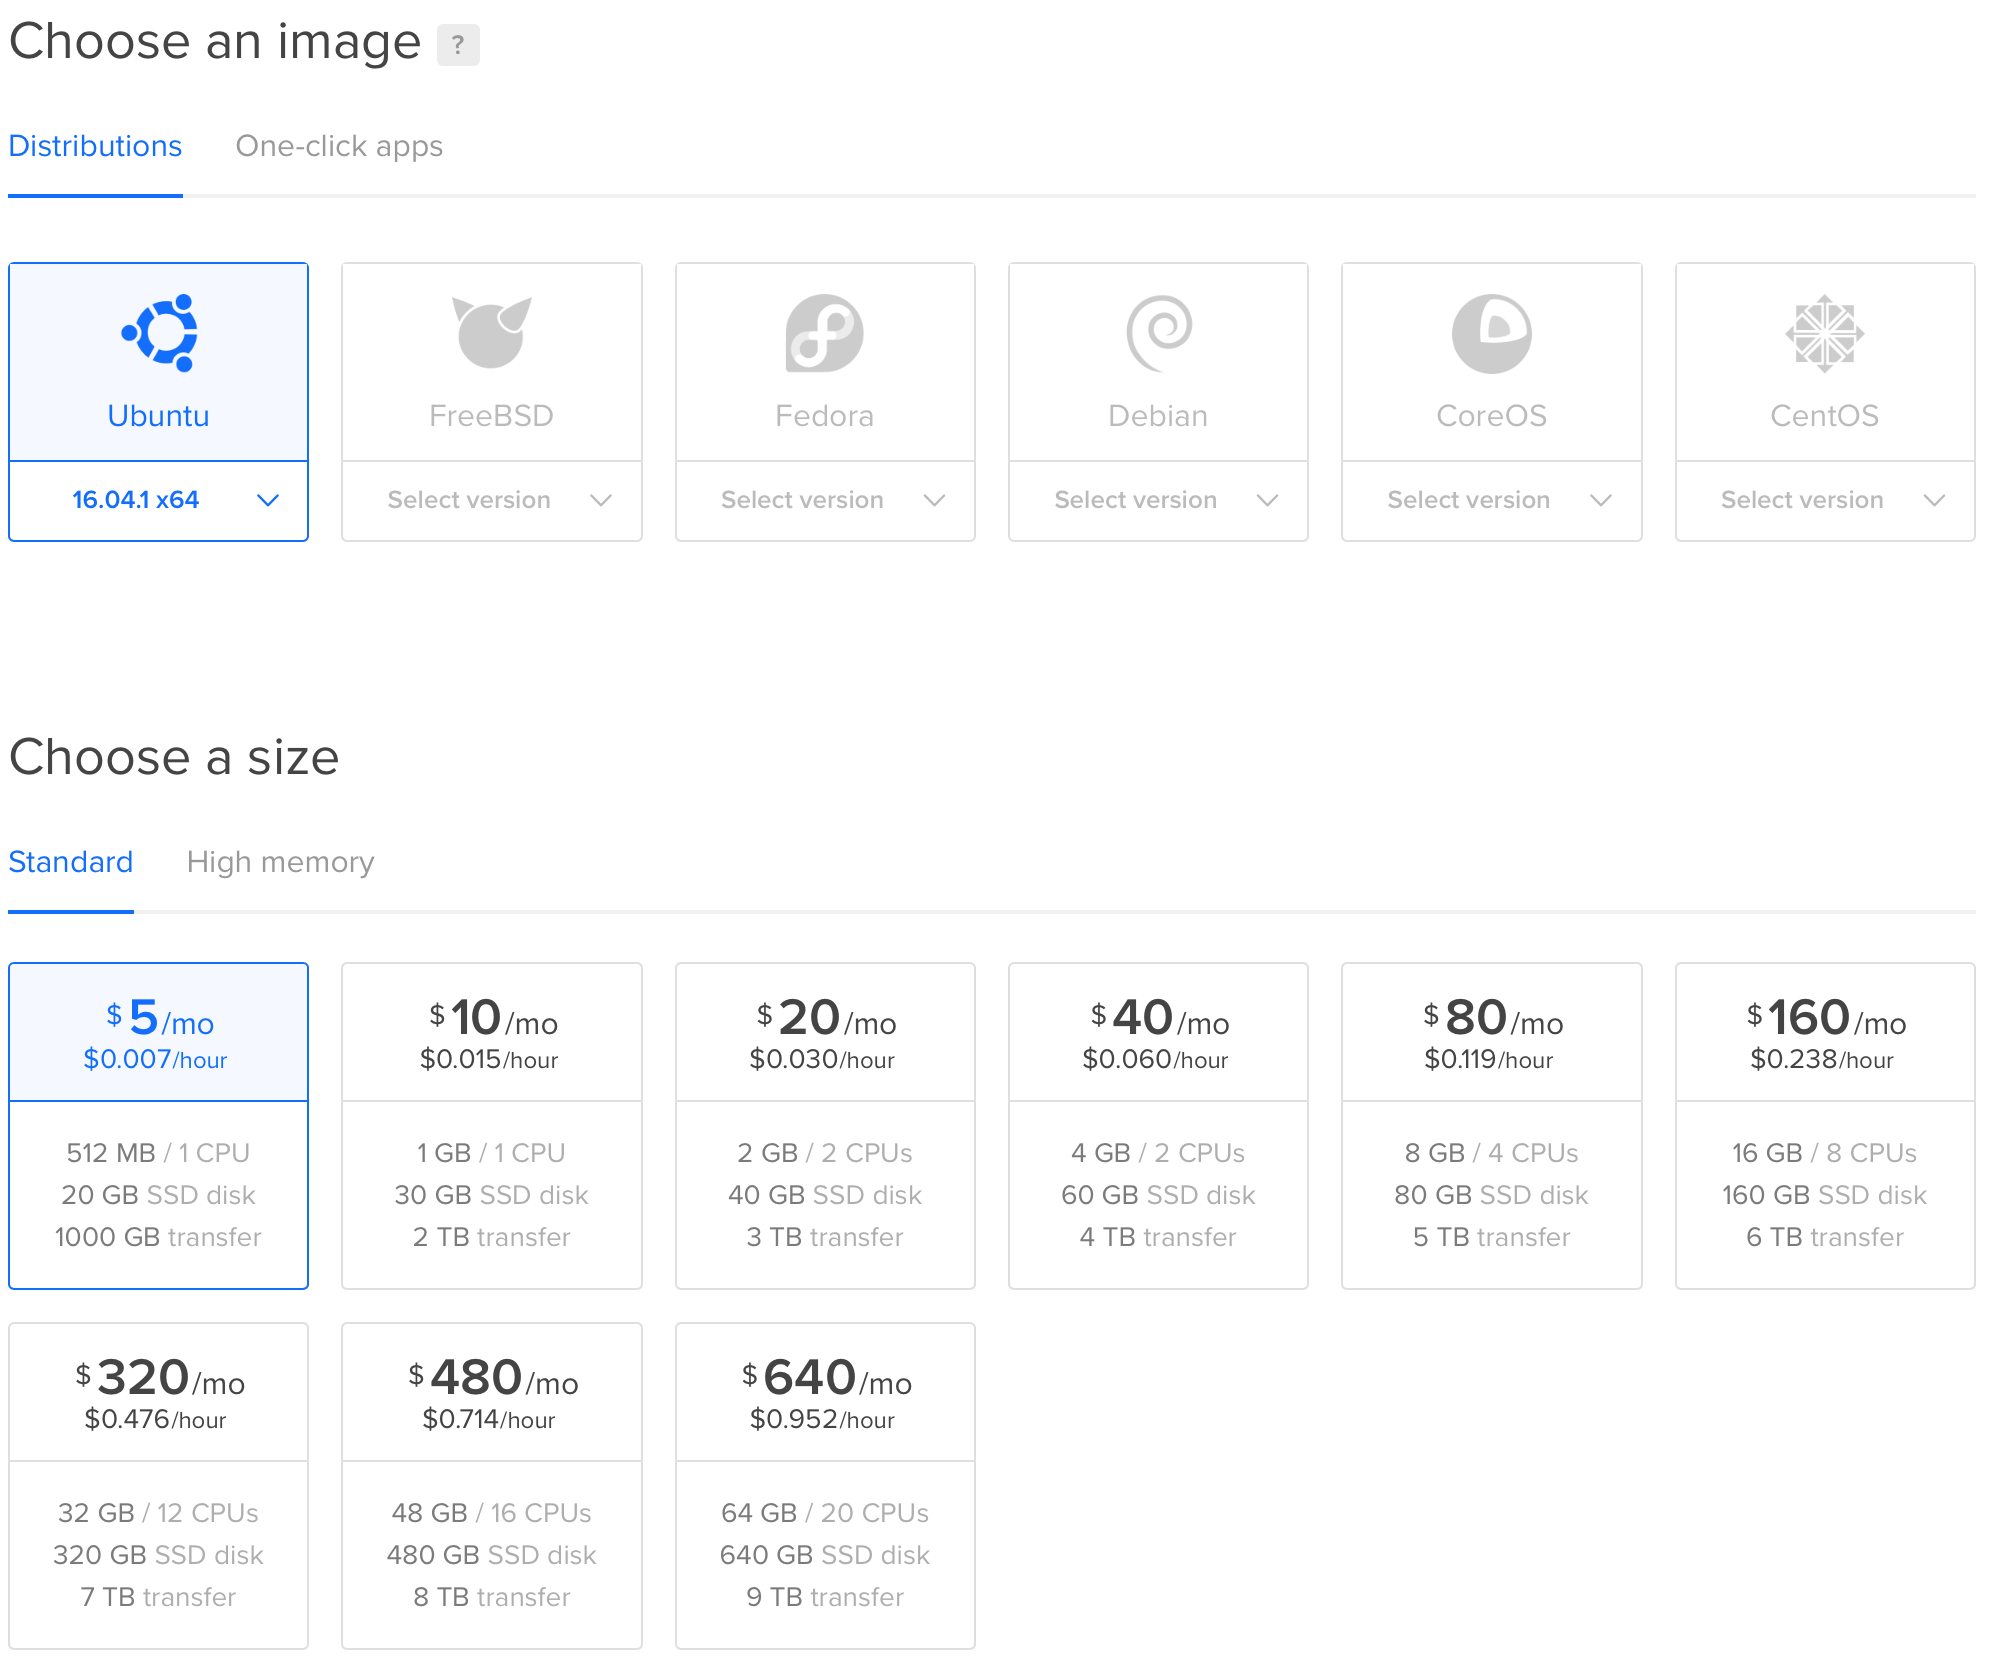
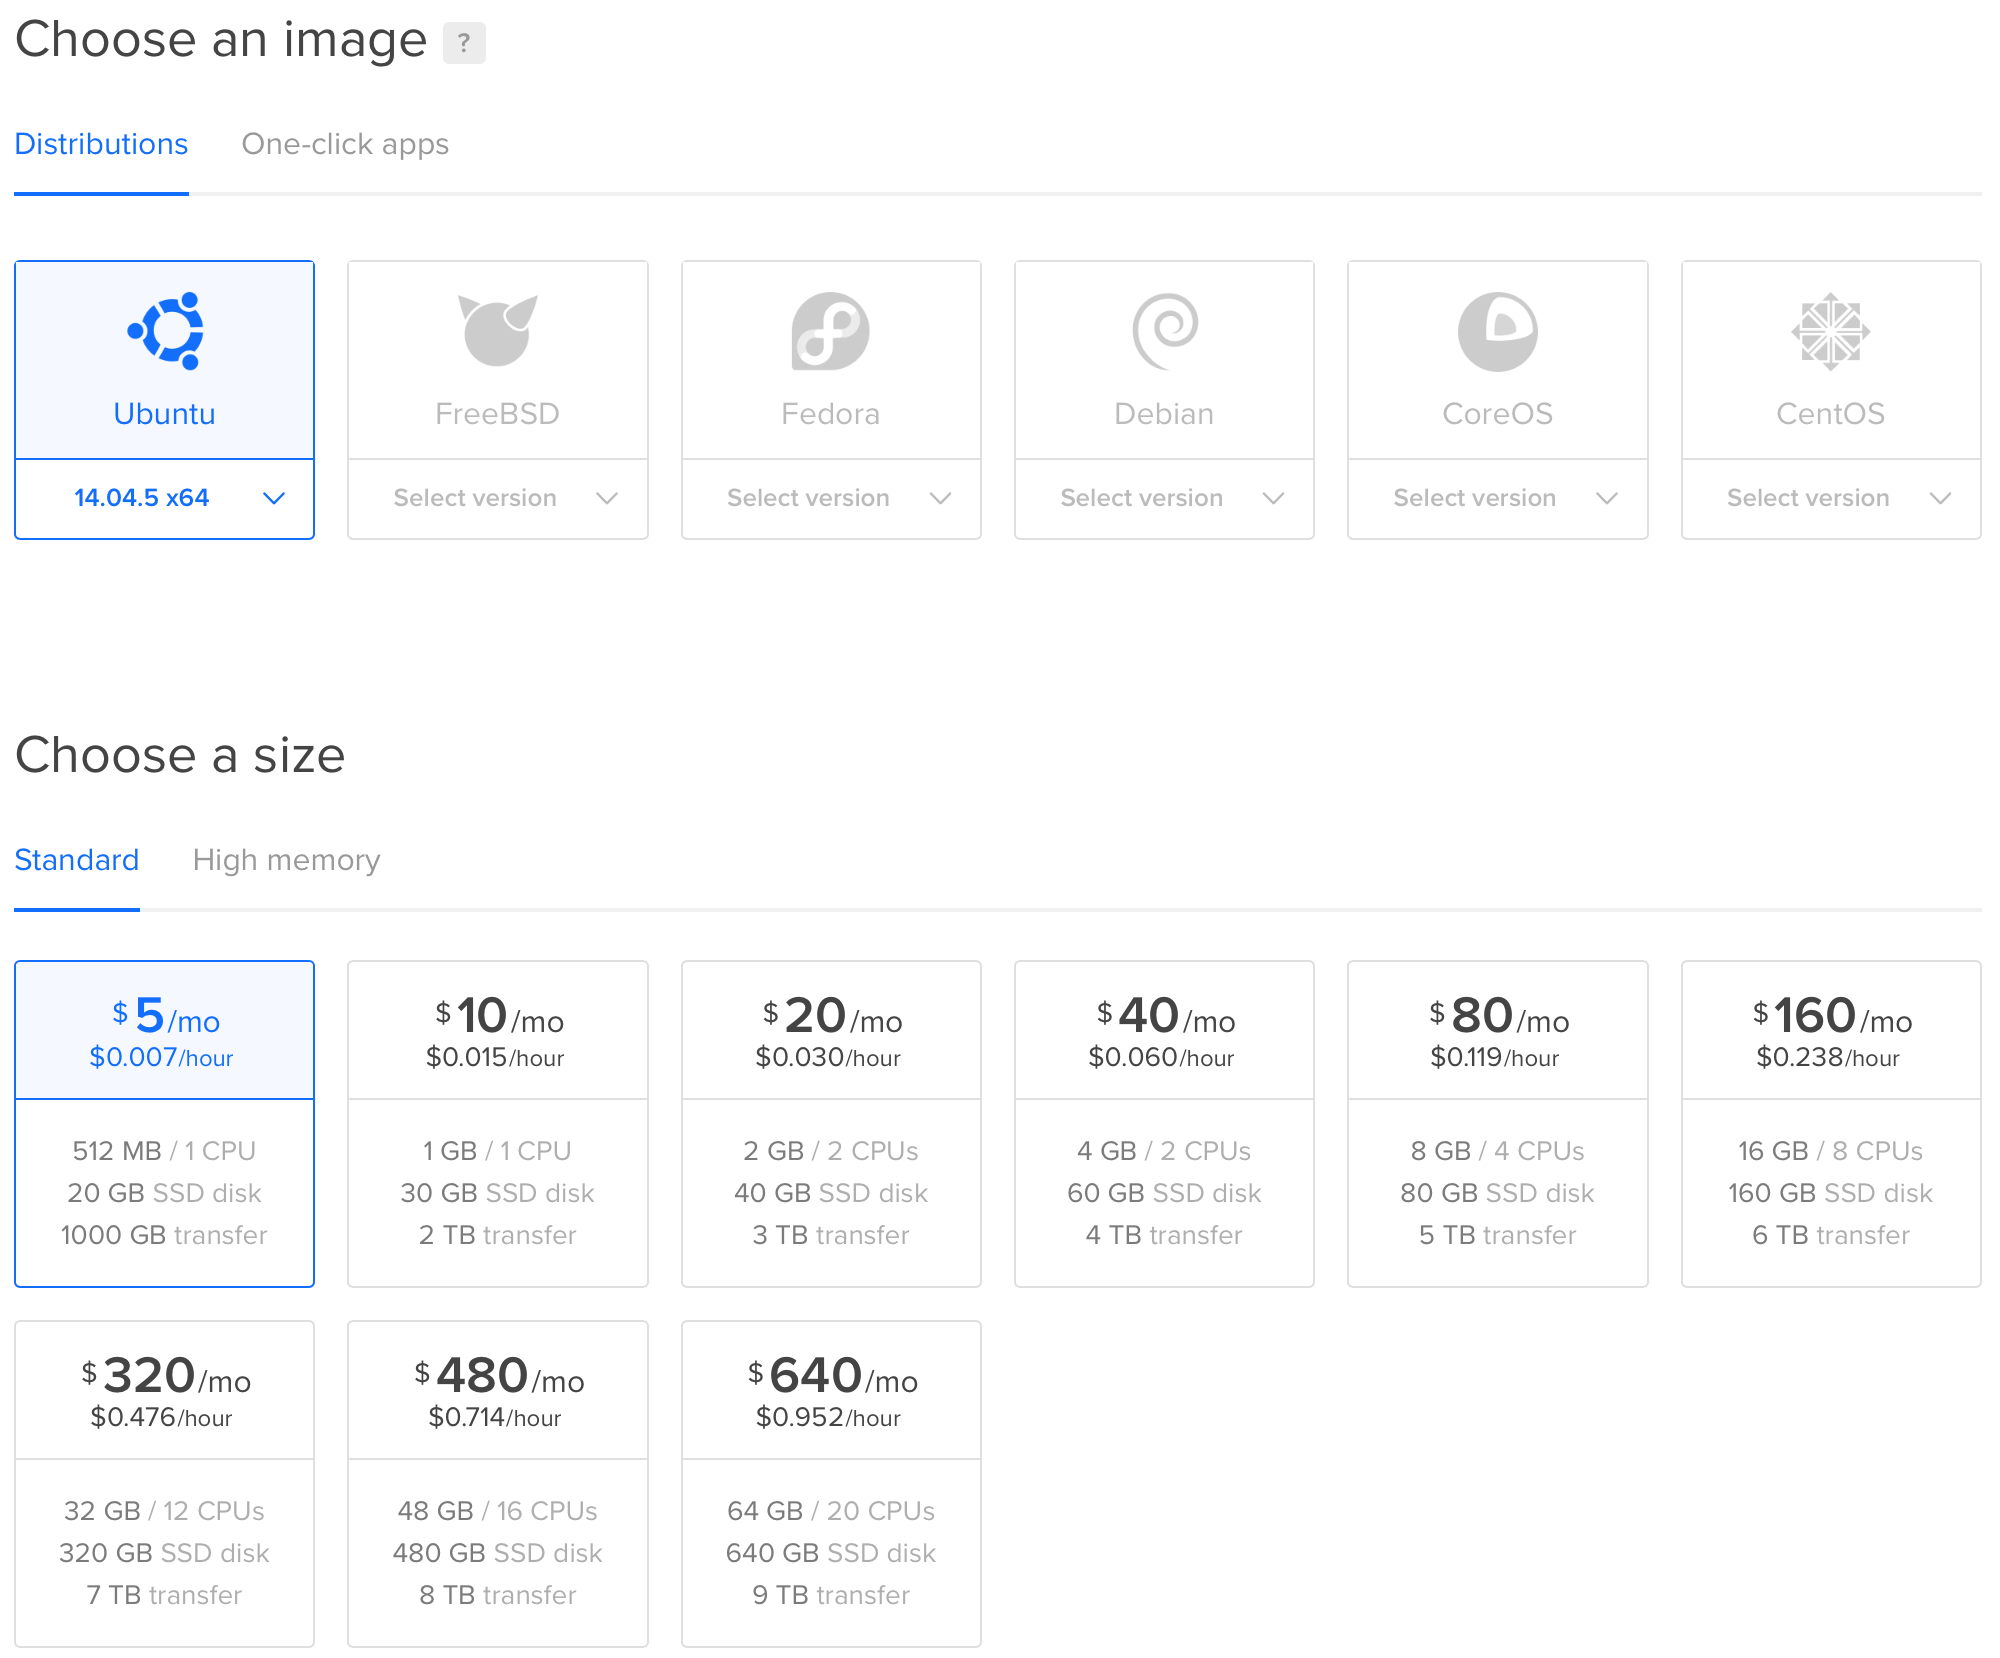
finished honeymoon post

diff --git a/_posts/2016-10-25-mediawiki-tutorial.md b/_posts/2016-10-25-mediawiki-tutorial.md
@@ -7,7 +7,7 @@ image:
 
 ---
 
-This post will explain from scratch how to install MediaWiki on a DigitalOcean droplet, including how to set up Wikipedia-style navigation bars. It's something I needed to do for a project I'm working on in a volunteer capacity and I had a tough time finding resources so decided to write up a detailed explanation myself. 
+This post will explain from scratch how to install MediaWiki on a DigitalOcean droplet, including how to set up Wikipedia-style navigation bars. It's something I needed to do for a project I'm working on in a volunteer capacity and I had a tough time finding resources so decided to write up a detailed explanation myself. Here I'm assuming you're using MacOS or Unix (i.e. some OS with a Unix-based terminal). 
 
 1. Start up a DigitalOcean droplet
 2. Install Apache webserver
@@ -18,6 +18,20 @@ This post will explain from scratch how to install MediaWiki on a DigitalOcean d
 
 ## 1. Start up a DigitalOcean droplet
 
-DigitalOcean is a fantastic provider of VPC (virtual private cloud) services; it's basically a simplified version of AWS which has some great entry-level options for prototyping projects and playing with web services. We're going to use a very basic droplet for this tutorial:  
+DigitalOcean is a fantastic provider of VPC (virtual private cloud) services; it's basically a simplified version of AWS which has some great entry-level options for prototyping projects and playing with web services. We're going to use a very basic droplet for this tutorial: the 512MB RAM, single CPU option, which is enough for prototyping. Anything more serious and you'll need to scale up the droplet, which is very easy to do later. Notice we're picking **Ubuntu 14.04.5 x64** as our OS. 
 
 ![Choose droplet](https://github.com/clintonboys/clintonboys.github.io/blob/master/_posts/mediawiki1.png?raw=true)
+
+You don't need to add an SSH key (unless you're really worried about security on your wiki), and you should choose whichever datacenter region is relevant to you. Click Create droplet and you should see the instance spinning up in your list:
+
+![New instance](https://github.com/clintonboys/clintonboys.github.io/blob/master/_posts/mediawiki2.png?raw=true)
+
+DigitalOcean have just sent you an email with the root password to your instance: so go to your terminal and 
+
+`ssh root@XXX.XXX.XXX.XXX`
+
+where the XXXs represent the IP of your new instance. You'll need to type / copy the password from the email, and be prompted to change passwords.
+
+## 2. Install Apache webserver
+
+Now you're inside your new instance, we need to install Apache 
